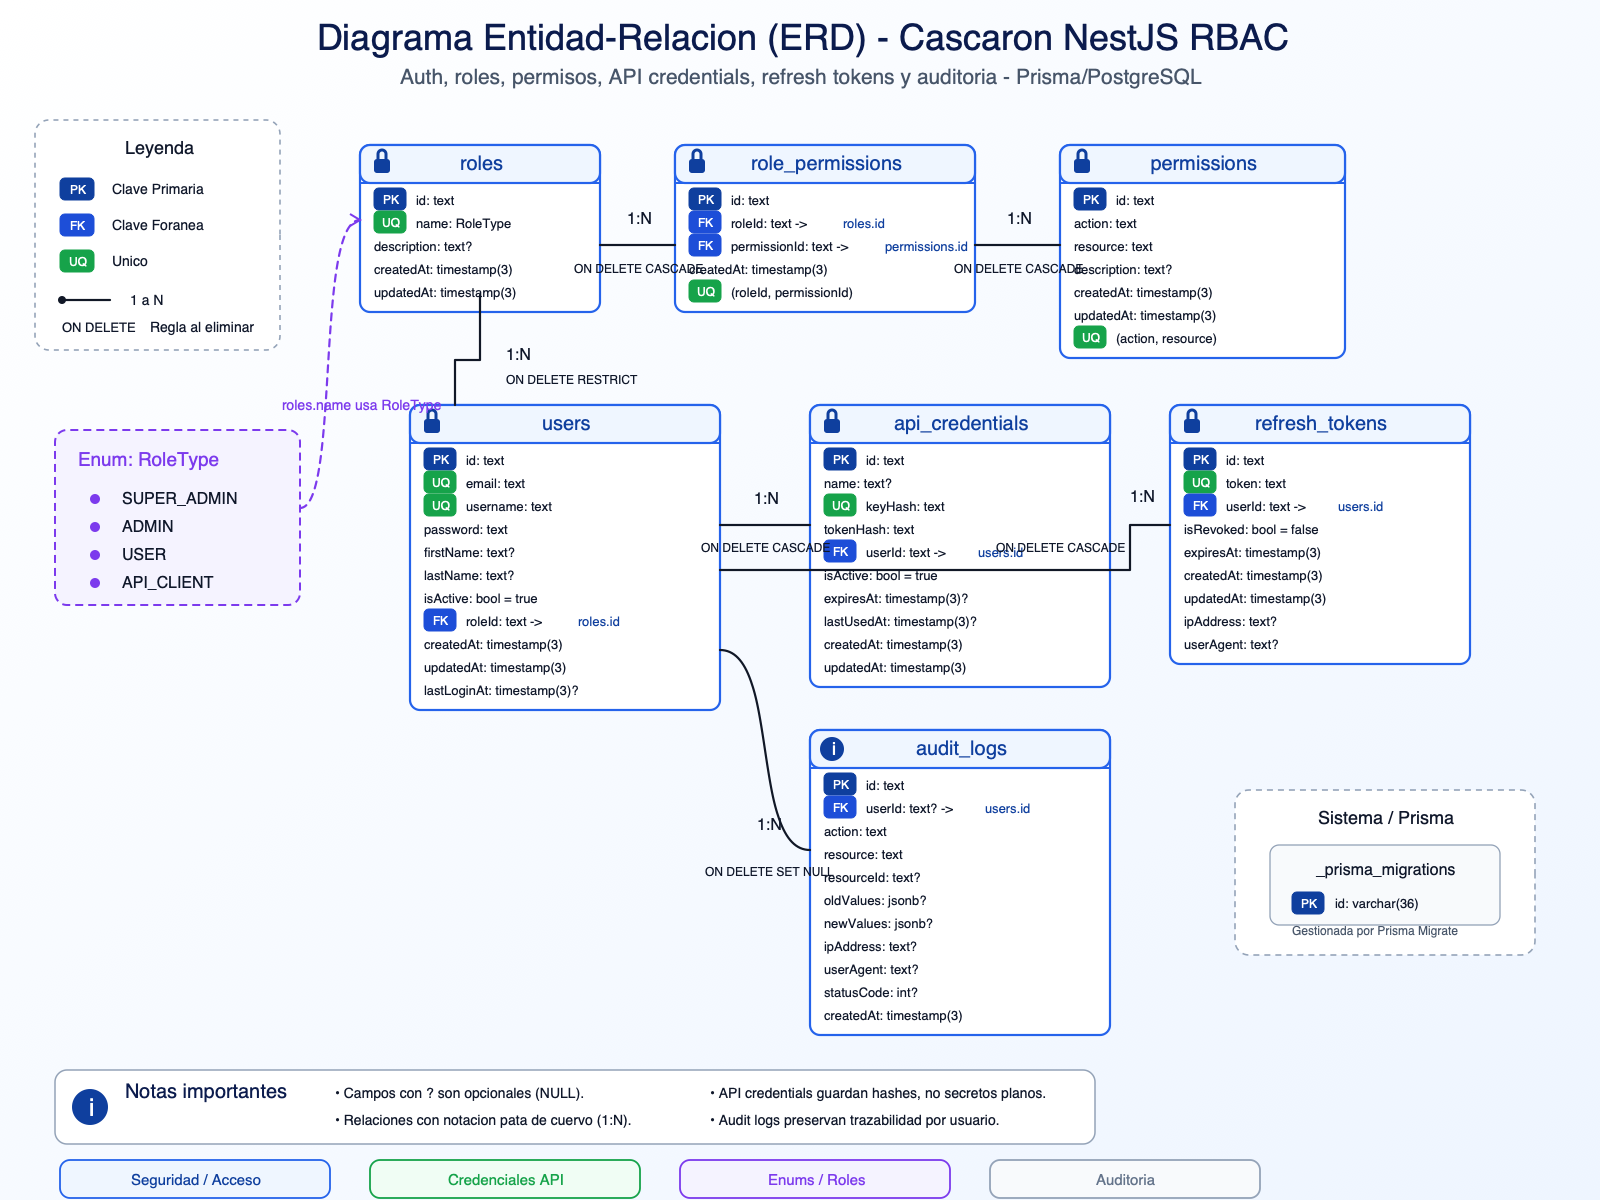
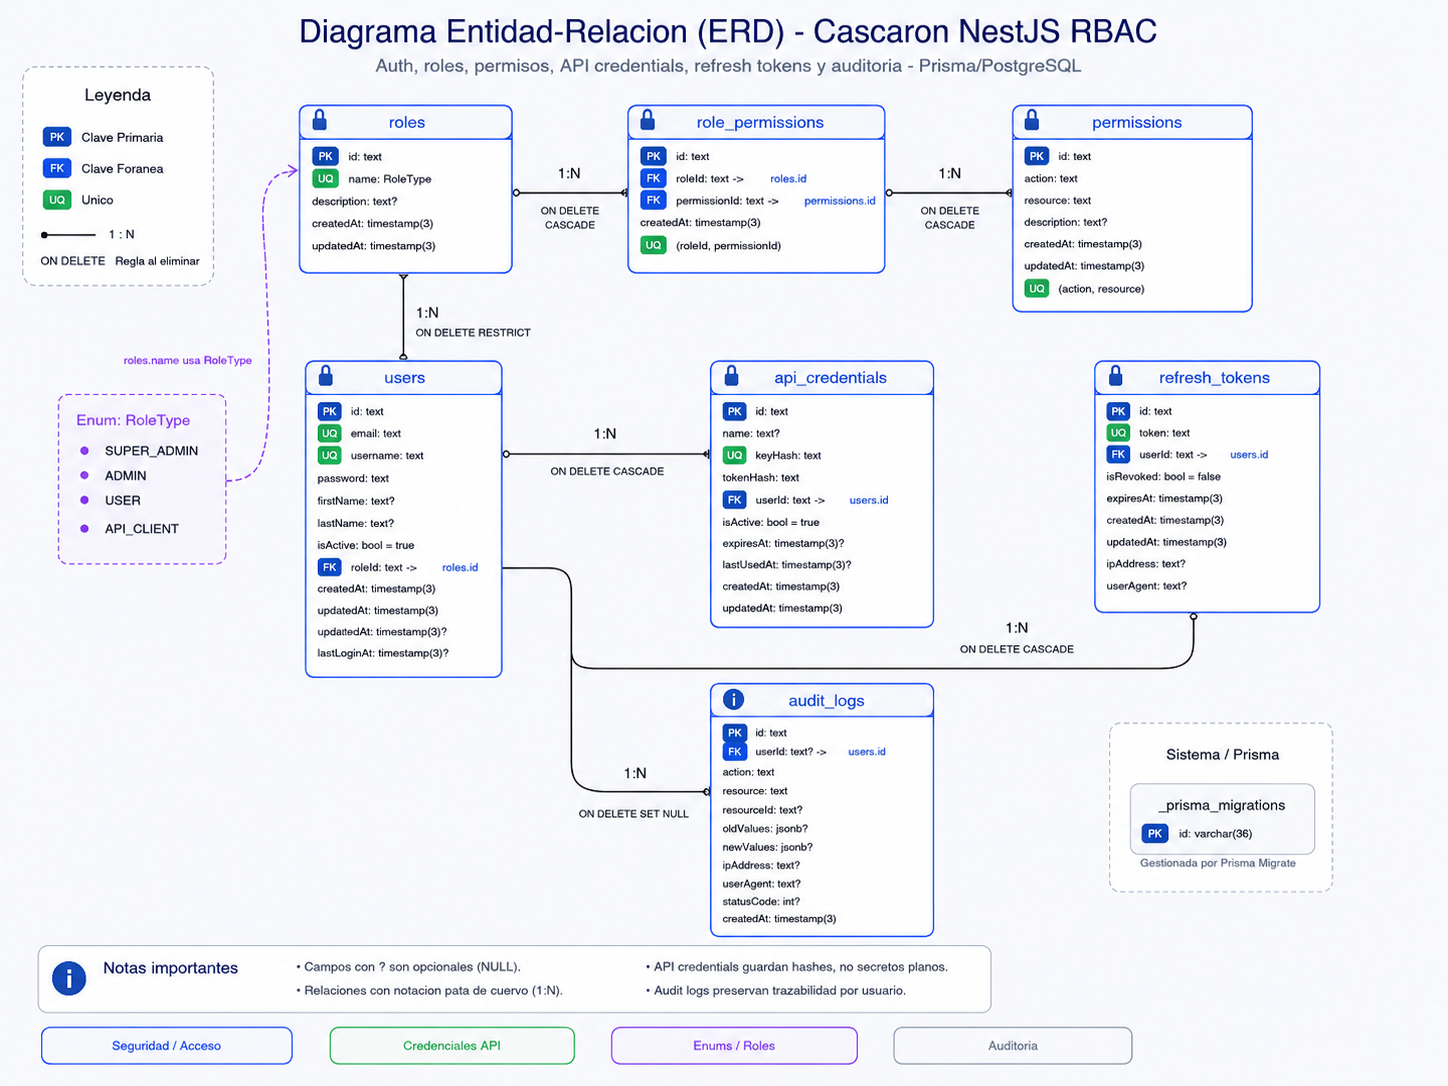
AGENTS.md actualizado

diff --git a/AGENTS.md b/AGENTS.md
@@ -2,16 +2,21 @@
 
 ## Project Shape
 - Single NestJS starter app. Main entrypoints are `src/main.ts` and `src/app.module.ts`.
-- This repository is a backend cascaron for new projects with JWT auth, RBAC, API credentials, audit logging, Prisma and PostgreSQL.
+- This repository is a backend cascaron for new projects with JWT auth, RBAC, optional API credentials, Prisma and PostgreSQL.
+- Current source modules are `auth`, `users`, `prisma`, `common`, and `config`.
 - Auth/RBAC state lives in Postgres via Prisma: `users`, `roles`, `permissions`, `role_permissions`, `api_credentials`, `refresh_tokens`, and `audit_logs`.
 - Domain/business modules should be added as new feature modules under `src/` and imported from `src/app.module.ts`.
 - `Diagrama-ER.png` documents the current base schema. `Diagrama-ER-original.png` preserves the previous production ERD before this repo was converted into a starter.
+- `AuditInterceptor` exists, but it is not registered globally by default. The `audit_logs` table is available for projects that choose to enable or wire audit logging.
 
 ## Run And Verify
 - Use `npm`; `package-lock.json` is the only lockfile.
+- Install dependencies with `npm install`.
 - Local dev server: `npm run start:dev`.
 - Build: `npm run build`.
-- Bootstrap local DB in this order: `npm run prisma:generate && npm run prisma:migrate && npm run prisma:seed`.
+- Generate Prisma Client: `npm run prisma:generate`.
+- Local DB bootstrap order: `npm run prisma:generate && npm run prisma:migrate && npm run prisma:seed`.
+- Production migrations: `npm run prisma:migrate:prod`.
 - Swagger is served at `http://localhost:${PORT}/${API_PREFIX}/docs`.
 - `npm run lint` is destructive because it runs `eslint --fix`.
 - Do not rely on `npm test` or `npm run test:e2e` for repo verification today: there are no committed `*.spec.ts` files and no `test/` directory.
@@ -21,16 +26,32 @@
 - `ConfigModule` only loads `.env`; `.env.example` is a template, not auto-loaded.
 - All routes are under `/${API_PREFIX}`; default is `/api/v1`.
 - URI versioning is enabled globally, but controllers do not declare versions. Do not guess `/v1/...` route variants beyond the global prefix.
+- Security/runtime middleware in `main.ts`: Helmet, compression, cookie-parser, CORS, validation pipe, global exception filter, and global interceptors.
 - Successful responses are wrapped as `{ statusCode, message, data, timestamp }` by `TransformInterceptor`.
-- Error responses come from `HttpExceptionFilter`, not Nest default error formatting.
+- Error responses come from `HttpExceptionFilter`, not Nest default error formatting. Error bodies include `statusCode`, `timestamp`, `path`, `method`, `error`, and `message`.
 - Winston writes to `logs/error.log` and `logs/combined.log`; `logs/` is gitignored.
 - `THROTTLE_TTL`, `THROTTLE_LIMIT`, and `LOG_LEVEL` in `.env.example` are currently informational: throttling and logger setup are hardcoded in code.
+- Current CORS `allowedHeaders` are `Content-Type`, `Authorization`, and `X-Requested-With`. Browser clients using `x-api-key` and `x-api-token` may need those headers added to CORS.
 
 ## Auth And Authorization
-- Only `POST /auth/login` and `POST /auth/refresh` are public. Everything else requires Bearer JWT or enabled API credentials.
+- `AuthModule` registers global `JwtAuthGuard`, `RolesGuard`, and `PermissionsGuard`.
+- `AppModule` registers global `ThrottlerGuard`.
+- Only `POST /auth/login` and `POST /auth/refresh` are public via `@Public()`.
+- Everything else requires Bearer JWT or enabled API credentials.
 - Login DTO uses `username`, but the service accepts either username or email.
+- Login returns `accessToken`, `refreshToken`, `tokenType`, and `expiresIn`.
+- Refresh tokens are persisted in `refresh_tokens`, rotated on refresh, and revoked on logout.
 - Seeded bootstrap admin is `admin` / `Admin@123456` (`[email redacted]`).
 - Seeded roles are `SUPER_ADMIN`, `ADMIN`, `USER`, and `API_CLIENT`.
+- Seeded permissions are currently `read users` and `manage users`.
 - `SUPER_ADMIN` receives all seeded permissions. `ADMIN` receives read-only seeded permissions.
+- `UsersController` currently exposes only `GET /users/:id`, guarded by `SUPER_ADMIN` and `ADMIN`. Other CRUD routes exist in code but are commented out.
 - `API_AUTH_ENABLED=true` enables `x-api-key` and `x-api-token` authentication for external integrations.
-- `prisma/seed-api-credentials.ts` creates hashed DB-backed API credentials for an existing user.
+- API credential auth first checks hashed DB-backed credentials in `api_credentials`; if no DB match exists, it can fall back to legacy env credentials `API_AUTH_KEY`, `API_AUTH_TOKEN`, and `API_AUTH_USER`.
+- `prisma/seed-api-credentials.ts` creates hashed DB-backed API credentials for an existing user and prints the plain key/token once.
+
+## Prisma Model
+- Keep auth/base models generic unless a new project explicitly needs domain tables.
+- Current schema models: `Role`, `Permission`, `RolePermission`, `User`, `ApiCredential`, `RefreshToken`, and `AuditLog`.
+- Current enum: `RoleType`.
+- Removed business/SAP models should not be reintroduced unless required by a specific project.